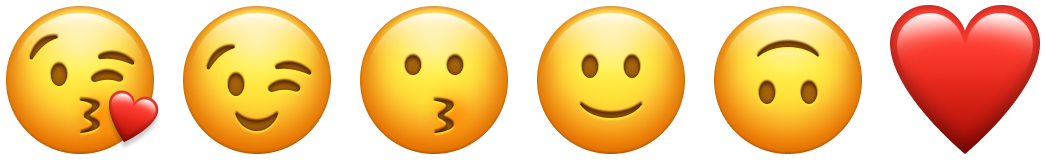
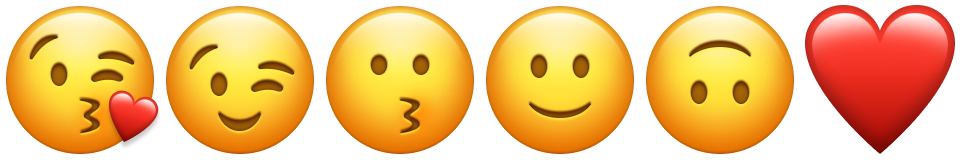
d

diff --git a/stylesheets/content.css b/stylesheets/content.css
@@ -147,10 +147,10 @@
 }
 @keyframes suprcool {
   0%{ background-position: 0px top;}
-  16%{ background-position: -171px top;}
-  32%{ background-position: -342px top;}
-  48%{ background-position: -513px top;}
-  64%{ background-position: -684px top;}
-  78%{ background-position: -855px top;}
-  100%{ background-position: -1026px top;}
+  16%{ background-position: -160px top;}
+  32%{ background-position: -320px top;}
+  48%{ background-position: -480px top;}
+  64%{ background-position: -640px top;}
+  78%{ background-position: -800px top;}
+  100%{ background-position: -960px top;}
 }
